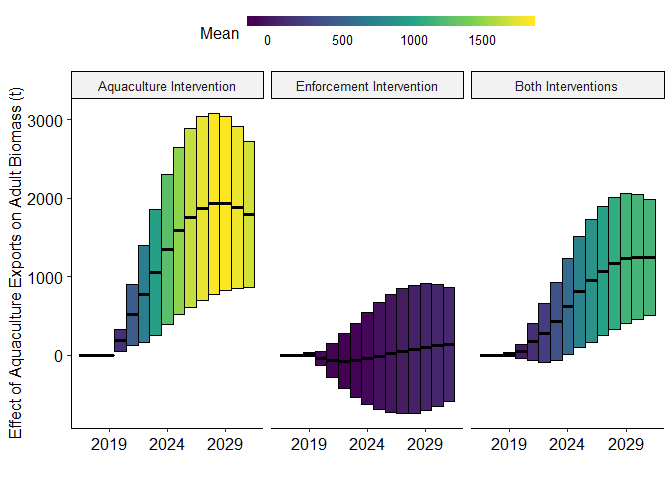
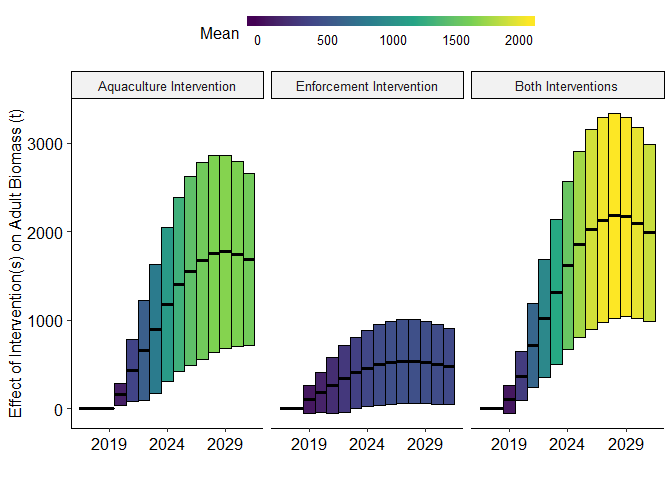
Tweak for eta.

diff --git a/README.md b/README.md
@@ -180,7 +180,7 @@ fun = function(par){
   r_fi[1] = sum(p_mat[1,] * fun_l_w(a_lw, fun_a_l(a_matrix[1, ], linf_al, k_al, t0_al), b_lw) * y[1, ] * by1 * by2 * 1000) # Constant for conversion to grams of buche.
   c_fi[1] = e[1] * c_2017 + e[1] * switch_en * multi_en * c_enf # Costs for first year. Vessel costs, crew shares of profit, and enforcement intensification.
   rec[1] = fun_rec(sum(n[1, 4:(a_i - a_0 + 1)]), a_r, b_r, d_r, f1_r, f2_r) # Recruitment for first year. Start of column designation is hard-coded.
-  eta = (e[1] * eta_limit) / abs(r_fi[1] - c_fi[1]) # Parameter to restrict changes in effort.
+  eta = (e[1] * eta_limit) / abs(r_fi[1] - e[1] * c_2017) # Parameter to restrict changes in effort. 
 
   #  Aquaculture.
   #   Current.
@@ -447,8 +447,7 @@ fun = function(par){
 # Set-Up for Model Runs
 
 ``` r
-# Visualization
-#  Set up palettes.
+# Set up palettes for visualization.
 pal_fil = viridis(4, 
                   begin = 0.00, 
                   end = 0.50, 
@@ -462,7 +461,7 @@ pal_col = viridis(4,
                   direction = -1, 
                   option = "D")
 
-# Market
+# Set up price model.
 #  Estimate inverse demand.
 #   Nonlinear model doesn't really pay off, but here's the code anyhow.
 # nlm = nls(p ~ q * a + (g ^ b) + c, 
@@ -476,7 +475,7 @@ lm_p = lm(p ~ q + g,
 #  Clean results.
 lm_tidy = tidy(lm_p)
 
-# Aquaculture
+# Set up aquaculture model.
 #  Estimate incremental mortalities.
 #  Regression:
 am_reg = nls(m_months ~ b1 * exp(b2 * a_months), dat_aqm, start = list(b1 = 8.00, b2 = - 1.00))
@@ -549,7 +548,7 @@ pars_base = pars_full %>%
   column_to_rownames(var = "name_short")
 
 # Define n runs.
-n = 100
+n = 10000
 
 # Build n runs w/o aquaculture.
 pars_0 = pars_base[1]
@@ -723,7 +722,7 @@ vis_bio_sum =
                    fill = Mid),
                 width = 1) +
   labs(x = "",
-       y = "Effect of Aquaculture Exports on Adult Biomass (t)",
+       y = "Effect of Intervention(s) on Adult Biomass (t)",
        fill = "Mean") +
   scale_x_continuous(breaks = c(2019, 2024, 2029)) +
   scale_fill_viridis_c() +
@@ -887,11 +886,7 @@ vis_rev =
 
 # Print.
 print(vis_rev)
-```
 
-![](README_files/figure-gfm/rev-1.png)<!-- -->
-
-``` r
 # Save.
 ggsave("./out/vis_rev.png",
        vis_rev,
@@ -994,11 +989,7 @@ par_1 =
 pars = 
   inner_join(par_0, 
              par_1)
-```
-
-    ## Joining, by = "names"
-
-``` r
+  
 # Get a matrix of parameters for demand and substitution.  
 mat = crossing(dem = seq(1.00, 2.00, by = 0.10), 
                sub = seq(0.00, 1.00, by = 0.10))
@@ -1056,13 +1047,7 @@ vis_dem =
 
 # Print.
 print(vis_dem)
-```
 
-    ## Warning: Removed 37 rows containing missing values (geom_text).
-
-![](README_files/figure-gfm/dem-1.png)<!-- -->
-
-``` r
 # Save.
 ggsave("./out/vis_dem.png",
        vis_dem,
@@ -1070,8 +1055,6 @@ ggsave("./out/vis_dem.png",
        width = 6.5,
        height = 7.0)
 ```
-
-    ## Warning: Removed 37 rows containing missing values (geom_text).
 
 # Visualizing Principal Components
 
@@ -1158,57 +1141,22 @@ vis_pca =
 
 # Print!
 print(vis_pca)
-```
 
-    ## Warning: Removed 11 rows containing missing values (geom_point).
-
-![](README_files/figure-gfm/pca-1.png)<!-- -->
-
-``` r
 # Save!
 ggsave("./out/vis_pca.png", 
        vis_pca,
        dpi = 300,
        width = 6.5, 
        height = 7.0)
-```
 
-    ## Warning: Removed 11 rows containing missing values (geom_point).
-
-``` r
 # Tabulate refined PCA.
 #  yoink importance and print
 pca_imp = data.frame(summary(pca)$importance)
 print(pca_imp)
-```
-
-    ##                             PC1      PC2      PC3       PC4       PC5       PC6
-    ## Standard deviation     1.390804 1.053996 1.037158 0.9863993 0.8947804 0.3247252
-    ## Proportion of Variance 0.322390 0.185150 0.179280 0.1621600 0.1334400 0.0175700
-    ## Cumulative Proportion  0.322390 0.507540 0.686820 0.8489900 0.9824300 1.0000000
-
-``` r
 #  yoink rotations and print
 pca_rot = data.frame(summary(pca)$rotation)
 print(pca_rot)
-```
 
-    ##                           PC1         PC2         PC3          PC4         PC5
-    ## Initial Biomass     0.4343856 -0.41296102  0.40858012  0.221569791  0.49947222
-    ## Initial Effort     -0.1370868 -0.47794290 -0.25538395 -0.746529763  0.34707346
-    ## Effort Cost        -0.0354553 -0.76329996 -0.15103610  0.307965544 -0.53909005
-    ## Effort Entry        0.2331034  0.02358373  0.60018148 -0.529505988 -0.53888419
-    ## Aquaculture Export  0.5021119  0.13183274 -0.61645373 -0.135466859 -0.21237760
-    ## Final Biomass       0.6962799  0.02170012 -0.06925611  0.005431781  0.06284129
-    ##                            PC6
-    ## Initial Biomass     0.41865141
-    ## Initial Effort     -0.09894520
-    ## Effort Cost        -0.08856264
-    ## Effort Entry        0.11881108
-    ## Aquaculture Export  0.53575461
-    ## Final Biomass      -0.71130052
-
-``` r
 # Save tables.
 # Importances of PCs.
 kable(pca_imp, "html") %>% cat(., file = "./out/pca_imp.html")
@@ -1345,31 +1293,7 @@ results_sum =
 
 # Print!
 print(results_sum)
-```
 
-    ## # A tibble: 18 x 5
-    ##    Intervention                    Result  Difference Proportion Variable       
-    ##    <chr>                            <dbl>       <dbl>      <dbl> <chr>          
-    ##  1 Aquaculture and Enforcement~    1.14e4     1.19e+3      1.12  Stock Biomass  
-    ##  2 Aquaculture Intervention        1.19e4     1.72e+3      1.17  Stock Biomass  
-    ##  3 Enforcement Intervention        1.04e4     1.27e+2      1.01  Stock Biomass  
-    ##  4 Aquaculture and Enforcement~    5.88e1    -1.22e+2      0.325 Catch Biomass  
-    ##  5 Aquaculture Intervention        3.02e1    -1.51e+2      0.167 Catch Biomass  
-    ##  6 Enforcement Intervention        1.65e2    -1.58e+1      0.913 Catch Biomass  
-    ##  7 Aquaculture and Enforcement~    1.57e1    -3.86e+1      0.289 Effort         
-    ##  8 Aquaculture Intervention        8.13e0    -4.62e+1      0.150 Effort         
-    ##  9 Enforcement Intervention        4.74e1    -6.87e+0      0.874 Effort         
-    ## 10 Aquaculture and Enforcement~    2.92e0    -2.35e+0      0.554 Price          
-    ## 11 Aquaculture Intervention        2.93e0    -2.34e+0      0.557 Price          
-    ## 12 Enforcement Intervention        5.37e0     1.05e-1      1.02  Price          
-    ## 13 Aquaculture and Enforcement~    9.29e5    -3.75e+6      0.199 Revenue (Fishe~
-    ## 14 Aquaculture Intervention        5.00e5    -4.18e+6      0.107 Revenue (Fishe~
-    ## 15 Enforcement Intervention        4.40e6    -2.74e+5      0.941 Revenue (Fishe~
-    ## 16 Aquaculture and Enforcement~    7.52e7     5.49e+7      3.70  Revenue (Aquac~
-    ## 17 Aquaculture Intervention        7.80e7     5.77e+7      3.84  Revenue (Aquac~
-    ## 18 Enforcement Intervention        2.03e7     0.           1     Revenue (Aquac~
-
-``` r
 # Export!
 kable(results_sum, "html", digits = 2) %>% cat(file = "./out/results_sum.html")
 ```
